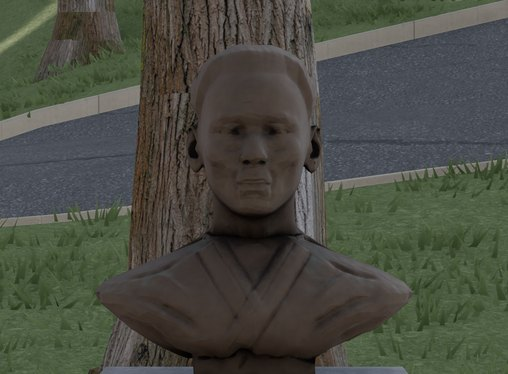
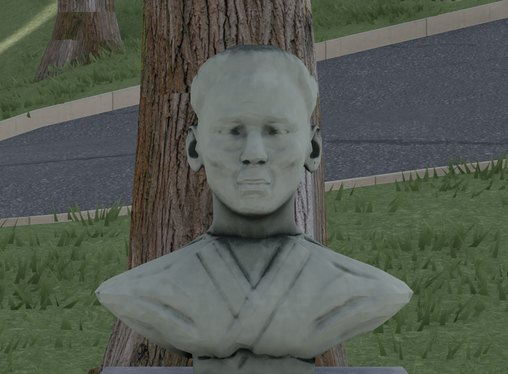
외솔 흉상의 빛깔을 2007년 사진의 회록색으로
갈색 청동으로 둔 흉상이 README 의 비교 사진과 많이 달랐다. 이 흉상을
찍은 하나뿐인 사진(2007년 연세춘추)의 고른 옅은 회록색 녹청으로 바꾼다.

- OS_LOOK: 온 몸의 녹청, 골은 어둡게, 드러난 금속은 거의 없게. 소나무
  그늘의 푸른 하늘빛을 덜려고 텍스처의 색은 사진보다 밝고 누렇게
- oesol_sculpt(cache=): 구운 마스크를 남겨 다시 굽지 않고 빛깔만
  다시 칠할 수 있게(_os_maps). 메시와 노멀맵은 그대로
- 두 사진이 어긋나는 것과 고른 까닭은 고증 2.9.4 「빛깔」

Changed region(s): [[0.1772, 0.1176, 0.8268, 1.0]]

diff --git a/blender/statues.py b/blender/statues.py
@@ -2338,9 +2338,12 @@ OS_CHIN = 0.28                            # the chin over the chest's lower edge
 OS_NECK = 0.035                           # the middle of the neck behind the chest's
 OS_BAND = ((-0.09, 0.224), (0.013, 0.06), (0.09, 0.224), (-0.062, -0.016))   # the collar's two bands on the front (x, z):
 #                                           his right one from the neck to the crossing, his left one over it to the edge
-# the bronze three years out of doors: brown, dull, darker in the hollows, a breath of green where the rain stands
-OS_LOOK = dict(verdigris=0.22, wear=0.45, base=(0.16, 0.115, 0.07), green=(0.16, 0.2, 0.15), soot=(0.04, 0.03, 0.022),
-               bare=(0.34, 0.23, 0.1), rough=(0.62, 0.88, 0.4), metal=(0.4, 0.08, 0.9))
+# the bronze as in the photo of 2007 (연세춘추, the only photo of this bust): an even pale grey-green all over, darker
+# in the hollows of the face and the folds, hardly any bare metal.  The colours are lighter and yellower than the
+# photo's, because the bust stands in the pines' shade under a blue sky (reference/고증/2.9.4 「흉상의 생김새」).
+OS_LOOK = dict(verdigris=0.85, wear=0.06, base=(0.385, 0.44, 0.32), green=(0.47, 0.535, 0.385), soot=(0.06, 0.07, 0.05),
+               bare=(0.36, 0.36, 0.26), rough=(0.8, 0.92, 0.6), metal=(0.15, 0.03, 0.6))
+OS_AO = 2.0                               # the shelter mask's power (_os_maps)
 
 
 def bust_foot(st, gfn):
@@ -2560,8 +2563,17 @@ def oesol_high():
     return out
 
 
-def oesol_sculpt(size=1024):
-    """Sculpt the bust, bake it onto its light mesh and save both (sculpt.load('oesol'))."""
+def _os_maps(raw):
+    """the maps from the baked masks: the shelter mask deepened, so that the face and the folds read in the shade of
+    the pines (as the Underwood statue's)"""
+    ao = raw['ao'].copy()
+    ao[..., 0] = np.clip(ao[..., 0], 0, 1) ** OS_AO
+    sculpt.write_maps('oesol', raw['nor'], ao, raw['m0'], raw['m1'], raw['cover'], OS_LOOK)
+
+
+def oesol_sculpt(size=1024, cache=None):
+    """Sculpt the bust, bake it onto its light mesh and save both (sculpt.load('oesol')).  cache: a file that receives
+    the baked masks, for trying another look without baking again (_os_maps)."""
     chest, head = oesol_high()
     sculpt.clay(head, amp=0.0018, scale=0.045, seed=3)
     sculpt.clay(chest, amp=0.0035, scale=0.07, seed=4)
@@ -2578,10 +2590,9 @@ def oesol_sculpt(size=1024):
     low.data.attributes.remove(low.data.attributes['part'])
     keep = {}
     sculpt.bake([chest, head], low, 'oesol', size=size, extrude=0.006, ray=0.02, ao_dist=0.4, look=OS_LOOK, keep=keep)
-    # the shelter mask deepened, so that the face and the folds read in the shade of the pines (as the Underwood statue's)
-    ao = keep['ao'].copy()
-    ao[..., 0] = np.clip(ao[..., 0], 0, 1) ** 1.7
-    sculpt.write_maps('oesol', keep['nor'], ao, keep['m0'], keep['m1'], keep['cover'], OS_LOOK)
+    if cache:
+        np.savez_compressed(cache, **keep)
+    _os_maps(keep)
     sculpt.save(low, 'oesol')
     return low
 

diff --git a/reference/고증/2.9.4_세모_섬과_외솔_흉상.md b/reference/고증/2.9.4_세모_섬과_외솔_흉상.md
@@ -36,7 +36,7 @@
     - 외솔관 앞으로 옮긴 뒤의 정면 사진([`reference/연세춘추/2007-03-25_10505_876_2698_316.jpg`](../연세춘추/2007-03-25_10505_876_2698_316.jpg), 260 × 223 px)
     - 같은 기사: 좌대에 「우리말본」의 한 구절 「한 겨레의 문화 창조의 활동은 그 말로써 들어가며 그 말로써 하여 가며 그 말로써 남기나니 조선말은 조선사람의 창조적 활동의 말미암던 길이요 연장이요 또 그 성과의 축적의 끼침이다.」
     - 같은 기사의 내력: 1926 ~ 1938년 연희전문 교수, 조선어학회 · 흥업구락부 사건으로 복역, 1954년부터 교수 · 문과대학장 · 부총장(추억 카드의 글)
-    - 같은 날 세운 위당 흉상의 1997년 사진([`reference/학교홈페이지/junginbo.jpg`](../학교홈페이지/junginbo.jpg)): 햇빛에 갈색으로 빛나는 청동. 2007년 사진의 회록색 녹청은 그 뒤 것으로 봄
+    - 같은 날 세운 위당 흉상의 1997년 사진([`reference/학교홈페이지/junginbo.jpg`](../학교홈페이지/junginbo.jpg)): 햇빛에 갈색으로 빛나는 청동(아래 「빛깔」)
   - 정면 사진에서 읽은 비(기사의 65 cm를 가슴 아래 끝에서 정수리까지로 봄, 1 px = 4.0 mm)
     - 머리(턱 ~ 정수리): 0.35 m, 전체의 0.55(실물의 1.5배와 맞음)
     - 어깨 폭: 0.67 m(높이의 1.04배)
@@ -49,8 +49,20 @@
     - 끝: 어깨는 팔에서 잘림, 가슴 아래 끝은 고르지 않은 선
   - 게임(`blender/statues.py` `oesol_sculpt`): 언더우드 동상처럼 정밀 원형을 빚어 가벼운 메시(삼각형 6,000개)에 구움(`data/statues/oesol.npz`, `web/public/assets/textures/statues/oesol_*.jpg`)
     - 크기: 받침 0.06 m 위에 0.64 m, 머리 0.355 m, 어깨 폭 0.67 m, 어깨 끝은 턱 아래 0.16 m
-    - 빛깔: 갈색 청동에 옅은 녹청(세운 지 3년, 위당 흉상의 1997년 사진)
+    - 빛깔: 고른 옅은 회록색 녹청(아래 「빛깔」)
     - 어림: 옆 · 뒷모습(사진이 정면 한 장), 얼굴의 닮음, 좌대의 글씨(검은 판만 둠)
+  - 빛깔 (2026-11-23)
+    - 두 자료가 어긋남(값은 sRGB 중앙값)
+      - 2007년 정면 사진(이 흉상, 햇빛): 온 몸이 고른 옅은 회록색. 이마 (138, 149, 145), 가슴 (170, 176, 173), 얼굴의 골 (82, 87, 78)
+      - 위당 흉상의 1997년 사진(다른 흉상, 낮은 햇빛): 이마 (166, 142, 112)의 누런 갈색, 햇빛 받은 가슴은 (252, 251, 224)로 날아간 크림색. 194 × 260 px의 웹 사진이라 빛의 색과 청동의 색을 가르지 못함(가슴이 그만큼 밝은 것은 옅은 녹청과도 맞으나 약한 근거)
+    - 고른 쪽: 2007년 사진
+      - 이 흉상을 찍은 하나뿐인 사진이고 README 「사진과 비교」의 짝
+      - 2026-11-22에는 1997년 위당 사진을 따라 갈색 청동으로 두었으나, 사진과 많이 달라 사용자가 사진의 빛깔로 정함
+      - 1997년에도 회록색이었는지는 정하지 못함(「남은 한계」)
+    - 게임(`blender/statues.py` `OS_LOOK`): 온 몸에 회록색 녹청, 얼굴의 골과 옷 주름은 어둡게, 닳아 드러난 금속은 거의 없음
+      - 같은 카메라(`compare/oesol_bust`)의 이마: (70, 61, 56) → (116, 124, 121), 가슴: (64, 55, 50) → (111, 119, 116)
+      - 사진보다 어두운 까닭: 게임의 흉상은 소나무 그늘에 있음
+      - 텍스처의 색은 사진보다 밝고 누렇게 둠(그늘의 푸른 하늘빛을 덜어 화면에서 회록색으로 보이게)
   - 비교: `docs/compare/oesol_bust_photo.jpg` · `oesol_bust_game.jpg`(README 「사진과 비교」)
   - 추억 카드 「외솔 흉상」: 흉상 앞 (102.1, 169.5), 위 두 사진
 - 남은 것: 섬 둘레의 연석 · 낮은 생울타리(2008년)가 1997년에 있었는지(「남은 한계」)
@@ -59,4 +71,4 @@
 
 | 항목 | 지금 | 모자란 자료 · 할 일 | 이슈 |
 |---|---|---|---|
-| 노천극장 쪽 갈림길의 세모 섬 | 소나무 셋(2008-08 · 2010-09의 자리), 외솔 흉상(위 「노천극장 쪽 갈림길의 세모 섬: 외솔 흉상」) | 1990년대 지상 사진 · 현장이 있어야 정해짐. 흉상은 기록으로 정함(1994년 10월 ~ 2001년 외솔 흉상). 흉상의 옆 · 뒷모습과 1997년의 좌대는 사진이 없어 어림(정면은 2007년 사진). 섬(100 ~ 112, 162 ~ 182)은 1997년 7월에는 수관, 1996년 겨울에도 상록수 수관에 덮여 연석 · 낮은 생울타리(2008년)가 1997년에 있었는지 못 봄(위 「1996년 겨울 원본 스캔으로 다시 본 것: 동쪽 길」). 그 섬을 동쪽 길에서 찍은 1990년대 사진. 찾아본 곳: 연세춘추 온라인(1999 ~ 2008, 「흉상」 · 「외솔」 · 「김윤경」), 네이버 뉴스 라이브러리(1990 ~ 2001, 「연세대 흉상」 · 「최현배 흉상」: 제막 기사뿐), 자료 R(학교 홈페이지 1996 ~ 1997) | [#203](https://github.com/yonsei-reunion/campus-1997/issues/203) |
+| 노천극장 쪽 갈림길의 세모 섬 | 소나무 셋(2008-08 · 2010-09의 자리), 외솔 흉상(위 「노천극장 쪽 갈림길의 세모 섬: 외솔 흉상」) | 1990년대 지상 사진 · 현장이 있어야 정해짐. 흉상은 기록으로 정함(1994년 10월 ~ 2001년 외솔 흉상). 흉상의 옆 · 뒷모습과 1997년의 좌대는 사진이 없어 어림(정면은 2007년 사진). 흉상의 1997년 빛깔도 못 정함(2007년 사진의 회록색으로 둠, 위 「빛깔」). 섬(100 ~ 112, 162 ~ 182)은 1997년 7월에는 수관, 1996년 겨울에도 상록수 수관에 덮여 연석 · 낮은 생울타리(2008년)가 1997년에 있었는지 못 봄(위 「1996년 겨울 원본 스캔으로 다시 본 것: 동쪽 길」). 그 섬을 동쪽 길에서 찍은 1990년대 사진. 찾아본 곳: 연세춘추 온라인(1999 ~ 2008, 「흉상」 · 「외솔」 · 「김윤경」), 네이버 뉴스 라이브러리(1990 ~ 2001, 「연세대 흉상」 · 「최현배 흉상」: 제막 기사뿐), 자료 R(학교 홈페이지 1996 ~ 1997) | [#203](https://github.com/yonsei-reunion/campus-1997/issues/203) |
